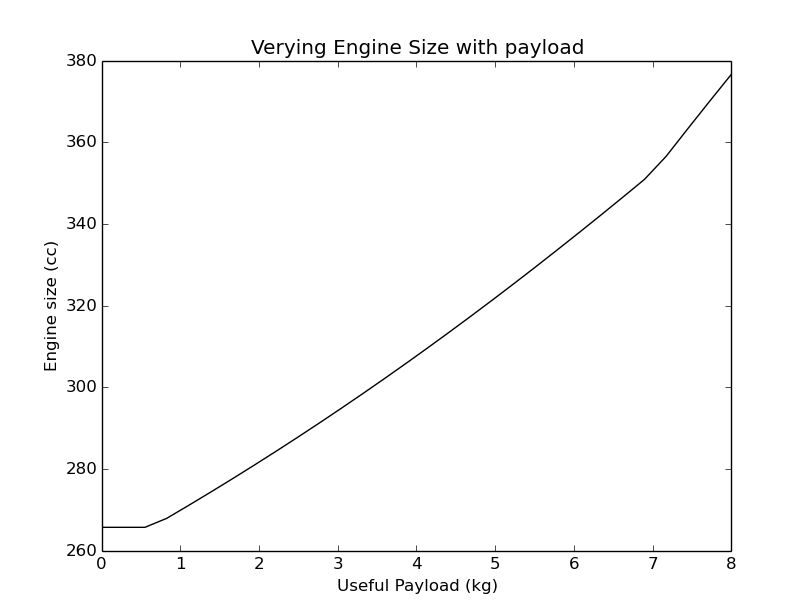
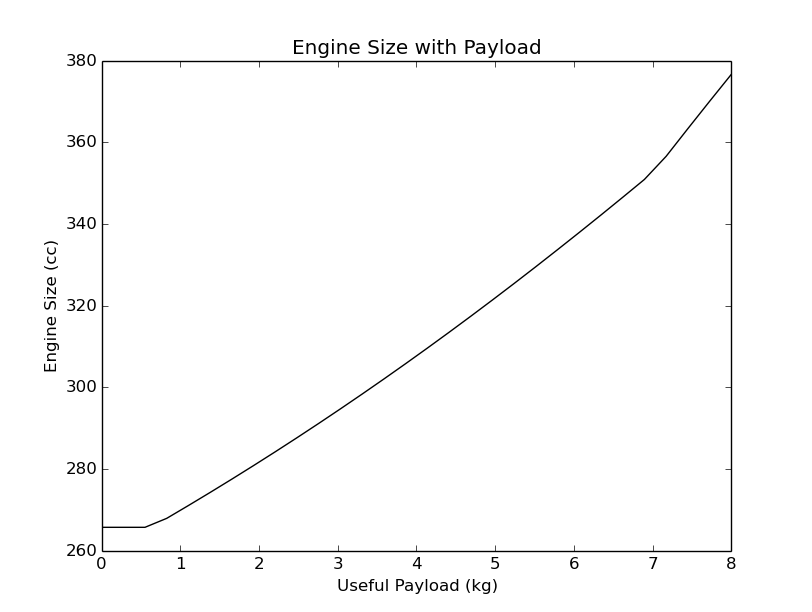
moved some figures around

diff --git a/presentation/presentation.tex b/presentation/presentation.tex
@@ -65,7 +65,7 @@ You will sign up for a 10 minute presentation time slot. The presentation is gra
 	\end{center}
 	\begin{figure}
 		\begin{center}
-			\includegraphics[width=.70\textwidth]{current_rev.png}
+			\includegraphics[width=.70\textwidth]{../current_capabilities.png}
 			\label{current_capabilities}
 		\end{center}
 	\end{figure}
@@ -108,7 +108,21 @@ You will sign up for a 10 minute presentation time slot. The presentation is gra
 \end{frame}
 
 \begin{frame}{Results}
+	\begin{figure}
+		\begin{center}
+			\includegraphics[width=.70\textwidth]{../pareto_front.png}
+			\label{fig:pareto}
+		\end{center}
+	\end{figure}
+\end{frame}
 
+\begin{frame}{Results}
+	\begin{figure}
+		\begin{center}
+			\includegraphics[width=.70\textwidth]{../engine_size_vs_payload.png}
+			\label{fig:pareto}
+		\end{center}
+	\end{figure}
 \end{frame}
 
 \begin{frame}{Lessons Learned}

diff --git a/python/project.py b/python/project.py
@@ -57,8 +57,8 @@ if __name__ == '__main__':
 
     plt.figure(2)
     plt.xlabel('Useful Payload (kg)')  # labels for axes
-    plt.ylabel('Engine size (cc)')
-    plt.title('Verying Engine Size with payload')
+    plt.ylabel('Engine Size (cc)')
+    plt.title('Engine Size with Payload')
     plt.plot(payloads, engine_size, '-k', label='Data')
     # plt.legend(loc='upper left')
     plt.show()

diff --git a/paper.tex b/paper.tex
@@ -105,7 +105,7 @@ Nearly all commercial and consumer multirotor UAVs are powered by Lithium-Polyme
 
 \begin{figurehere}
 	\begin{center}
-		\includegraphics[width=.40\textwidth]{current_capabilities.jpg}
+		\includegraphics[width=.40\textwidth]{current_capabilities.png}
 		\caption{\textit{Graphic showing current platforms and how our would be better.}}
 		\label{current_cap}
 	\end{center}
